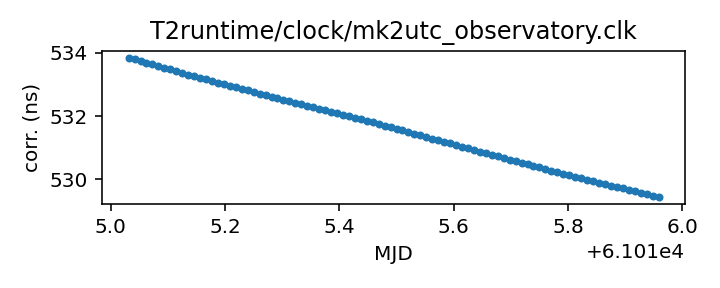
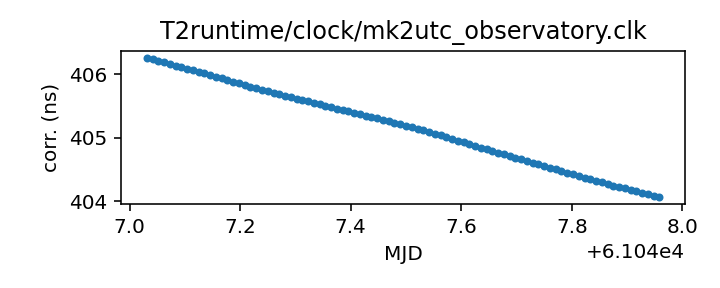
Routine gh-pages update from Github action Mon Jan 12 20:47:20 UTC 2026

diff --git a/status.md b/status.md
@@ -13,18 +13,18 @@ name of each clock file links to a page with more details.
 
 | Name | File | Corrections start | Corrections end | Last check date | Last check result 
 |:--- |:--- | --- | --- | --- |:--- 
-| [GPS to UTC](T2runtime/clock/gps2utc.clk.html) | `T2runtime/clock/gps2utc.clk` | 1993-01-01 MJD 48988.0 | 2025-12-30 MJD 61039.0 | 2026-01-11 | Unchanged 
-| [GPS to UTC (Combined Clock)](T2runtime/clock/gps2utc_cc.clk.html) | `T2runtime/clock/gps2utc_cc.clk` | 1993-01-01 MJD 48988.0 | 2025-12-30 MJD 61039.0 | 2026-01-11 | Unchanged 
-| [GPS to UTC (Corrected)](T2runtime/clock/gps2utc_c0p.clk.html) | `T2runtime/clock/gps2utc_c0p.clk` | 2010-12-29 MJD 55559.0 | 2025-12-30 MJD 61039.0 | 2026-01-11 | Unchanged 
-| [GBT](tempo/clock/time_gbt.dat.html) | `tempo/clock/time_gbt.dat` | 2000-12-31 MJD 51909.5 | 2026-01-10 MJD 61050.5 | 2026-01-11 | Updated 
-| [GBT (TEMPO2 converted from TEMPO)](T2runtime/clock/gbt2gps.clk.html) | `T2runtime/clock/gbt2gps.clk` | 2000-12-31 MJD 51909.5 | 2024-05-18 MJD 60448.5 | 2026-01-11 | **Validation failed** 
-| [Jodrell Bank](T2runtime/clock/jb2gps.clk.html) | `T2runtime/clock/jb2gps.clk` | 2006-10-13 MJD 54021.4 | 2025-10-08 MJD 60956.0 | 2026-01-05 | **Validation failed** 
-| [Jodrell Bank Roach](T2runtime/clock/jbroach2jb.clk.html) | `T2runtime/clock/jbroach2jb.clk` | 2006-10-13 MJD 54021.4 | 2018-03-20 MJD 58197.6 | 2026-01-05 | Unchanged 
-| [Jodrell Bank DFB](T2runtime/clock/jbdfb2jb.clk.html) | `T2runtime/clock/jbdfb2jb.clk` | 2006-10-13 MJD 54021.4 | 2021-02-22 MJD 59268.0 | 2026-01-05 | Unchanged 
-| [Meerkat (observatory)](T2runtime/clock/mk2utc_observatory.clk.html) | `T2runtime/clock/mk2utc_observatory.clk` | 2019-01-01 MJD 58484.0 | 2025-12-06 MJD 61016.0 | 2026-01-05 | Unchanged 
-| [Leap seconds](tempo/clock/leap.sec.html) | `tempo/clock/leap.sec` | 1972-07-01 MJD 41499.0 | 2017-01-01 MJD 57754.0 | 2026-01-11 | Unchanged 
-| [UT1 table](tempo/clock/ut1.dat.html) | `tempo/clock/ut1.dat` | 1973-01-02 MJD 41684.0 | 2027-01-16 MJD 61421.0 | 2026-01-11 | Unchanged 
-| [UT1 table](T2runtime/clock/ut1.dat.html) | `T2runtime/clock/ut1.dat` | 1973-01-02 MJD 41684.0 | 2027-01-16 MJD 61421.0 | 2026-01-11 | Unchanged 
+| [GPS to UTC](T2runtime/clock/gps2utc.clk.html) | `T2runtime/clock/gps2utc.clk` | 1993-01-01 MJD 48988.0 | 2025-12-30 MJD 61039.0 | 2026-01-12 | Unchanged 
+| [GPS to UTC (Combined Clock)](T2runtime/clock/gps2utc_cc.clk.html) | `T2runtime/clock/gps2utc_cc.clk` | 1993-01-01 MJD 48988.0 | 2025-12-30 MJD 61039.0 | 2026-01-12 | Unchanged 
+| [GPS to UTC (Corrected)](T2runtime/clock/gps2utc_c0p.clk.html) | `T2runtime/clock/gps2utc_c0p.clk` | 2010-12-29 MJD 55559.0 | 2025-12-30 MJD 61039.0 | 2026-01-12 | Unchanged 
+| [GBT](tempo/clock/time_gbt.dat.html) | `tempo/clock/time_gbt.dat` | 2000-12-31 MJD 51909.5 | 2026-01-11 MJD 61051.5 | 2026-01-12 | Updated 
+| [GBT (TEMPO2 converted from TEMPO)](T2runtime/clock/gbt2gps.clk.html) | `T2runtime/clock/gbt2gps.clk` | 2000-12-31 MJD 51909.5 | 2024-05-18 MJD 60448.5 | 2026-01-12 | **Validation failed** 
+| [Jodrell Bank](T2runtime/clock/jb2gps.clk.html) | `T2runtime/clock/jb2gps.clk` | 2006-10-13 MJD 54021.4 | 2025-10-08 MJD 60956.0 | 2026-01-12 | **Validation failed** 
+| [Jodrell Bank Roach](T2runtime/clock/jbroach2jb.clk.html) | `T2runtime/clock/jbroach2jb.clk` | 2006-10-13 MJD 54021.4 | 2018-03-20 MJD 58197.6 | 2026-01-12 | Unchanged 
+| [Jodrell Bank DFB](T2runtime/clock/jbdfb2jb.clk.html) | `T2runtime/clock/jbdfb2jb.clk` | 2006-10-13 MJD 54021.4 | 2021-02-22 MJD 59268.0 | 2026-01-12 | Unchanged 
+| [Meerkat (observatory)](T2runtime/clock/mk2utc_observatory.clk.html) | `T2runtime/clock/mk2utc_observatory.clk` | 2019-01-01 MJD 58484.0 | 2026-01-07 MJD 61048.0 | 2026-01-12 | Updated 
+| [Leap seconds](tempo/clock/leap.sec.html) | `tempo/clock/leap.sec` | 1972-07-01 MJD 41499.0 | 2017-01-01 MJD 57754.0 | 2026-01-12 | Unchanged 
+| [UT1 table](tempo/clock/ut1.dat.html) | `tempo/clock/ut1.dat` | 1973-01-02 MJD 41684.0 | 2027-01-16 MJD 61421.0 | 2026-01-12 | Unchanged 
+| [UT1 table](T2runtime/clock/ut1.dat.html) | `T2runtime/clock/ut1.dat` | 1973-01-02 MJD 41684.0 | 2027-01-16 MJD 61421.0 | 2026-01-12 | Unchanged 
 
 
 
@@ -68,26 +68,26 @@ name of each clock file links to a page with more details.
 
 | Name | File | Corrections start | Corrections end | Last check date | Last check result 
 |:--- |:--- | --- | --- | --- |:--- 
-| [GPS to UTC (TEMPO2)](T2runtime/clock/gpst2utc_tempo2.clk.html) | `T2runtime/clock/gpst2utc_tempo2.clk` | 1993-01-01 MJD 48988.0 | 2024-12-30 MJD 60674.0 | 2026-01-05 | Unchanged 
-| [GBT (TEMPO2)](T2runtime/clock/gbt2gps_tempo2.clk.html) | `T2runtime/clock/gbt2gps_tempo2.clk` | 2000-12-31 MJD 51909.5 | 2020-02-25 MJD 58904.5 | 2026-01-05 | Unchanged 
-| [Jodrell Bank (TEMPO)](tempo/clock/time_jb.dat.html) | `tempo/clock/time_jb.dat` | 2006-10-13 MJD 54021.4 | 2019-05-13 MJD 58616.2 | 2026-01-05 | Unchanged 
-| [VLA](tempo/clock/time_vla.dat.html) | `tempo/clock/time_vla.dat` | 1990-10-27 MJD 48191.2 | 2025-02-10 MJD 60716.2 | 2026-01-05 | Unchanged 
-| [VLA (TEMPO2)](T2runtime/clock/vla2gps.clk.html) | `T2runtime/clock/vla2gps.clk` | 2015-02-01 MJD 57054.6 | 2025-02-10 MJD 60716.2 | 2026-01-05 | Unchanged 
-| [VLA to NIST](T2runtime/clock/vla2nist.clk.html) | `T2runtime/clock/vla2nist.clk` | 1990-10-27 MJD 48191.2 | 1993-11-13 MJD 49304.0 | 2026-01-05 | Unchanged 
-| [FAST](tempo/clock/time_fast.dat.html) | `tempo/clock/time_fast.dat` | 2017-07-27 MJD 57961.0 | 2025-08-25 MJD 60913.0 | 2026-01-05 | **Failed to download** 
-| [WSRT](T2runtime/clock/wsrt2gps.clk.html) | `T2runtime/clock/wsrt2gps.clk` | 1999-01-01 MJD 51179.5 | 2015-06-29 MJD 57202.1 | 2026-01-05 | Unchanged 
-| [WSRT (TEMPO)](tempo/clock/time_wsrt.dat.html) | `tempo/clock/time_wsrt.dat` | 1987-07-24 MJD 47000.0 | 2007-12-24 MJD 54458.0 | 2026-01-05 | **Validation failed** 
-| [Parkes](T2runtime/clock/pks2gps.clk.html) | `T2runtime/clock/pks2gps.clk` | 1858-11-17 MJD 0.0 | 2025-11-30 MJD 61009.1 | 2026-01-05 | Unchanged 
-| [Parkes (TEMPO)](tempo/clock/time_pks.dat.html) | `tempo/clock/time_pks.dat` | 1979-05-07 MJD 44000.0 | 2011-07-03 MJD 55745.8 | 2026-01-05 | Unchanged 
-| [SRT](T2runtime/clock/srt2gps.clk.html) | `T2runtime/clock/srt2gps.clk` | 2013-03-20 MJD 56371.0 | 2019-12-11 MJD 58828.0 | 2026-01-05 | Unchanged 
-| [Effelsberg](T2runtime/clock/eff2gps.clk.html) | `T2runtime/clock/eff2gps.clk` | 1993-11-29 MJD 49320.0 | 2015-06-22 MJD 57195.5 | 2026-01-05 | Unchanged 
-| [Effelsberg Asterix/PSRix](T2runtime/clock/effix2gps.clk.html) | `T2runtime/clock/effix2gps.clk` | 2011-01-01 MJD 55562.5 | 2021-03-21 MJD 59294.5 | 2026-01-05 | Unchanged 
-| [LEAP](T2runtime/clock/leap2effix.clk.html) | `T2runtime/clock/leap2effix.clk` | 2012-10-29 MJD 56230.0 | 2014-03-04 MJD 56720.0 | 2026-01-05 | Unchanged 
-| [NUPPI](tempo/clock/time_nuppi.dat.html) | `tempo/clock/time_nuppi.dat` | 2005-03-07 MJD 53436.0 | 2015-11-08 MJD 57334.6 | 2026-01-05 | Unchanged 
-| [Meerkat (TEMPO2)](T2runtime/clock/mk2utc.clk.html) | `T2runtime/clock/mk2utc.clk` | 2019-01-01 MJD 58484.0 | 2024-09-23 MJD 60576.9 | 2026-01-05 | **Validation failed** 
-| [MOST](T2runtime/clock/mo2gps.clk.html) | `T2runtime/clock/mo2gps.clk` | 2003-12-27 MJD 53000.0 | 2018-09-06 MJD 58367.0 | 2026-01-05 | Unchanged 
-| [Nancay to obspm](T2runtime/clock/ncyobs2obspm.clk.html) | `T2runtime/clock/ncyobs2obspm.clk` | 1988-05-18 MJD 47299.6 | 2024-12-30 MJD 60674.0 | 2026-01-05 | Unchanged 
-| [obspm](T2runtime/clock/obspm2gps.clk.html) | `T2runtime/clock/obspm2gps.clk` | 2003-12-01 MJD 52974.0 | 2023-10-27 MJD 60244.0 | 2026-01-05 | Unchanged 
+| [GPS to UTC (TEMPO2)](T2runtime/clock/gpst2utc_tempo2.clk.html) | `T2runtime/clock/gpst2utc_tempo2.clk` | 1993-01-01 MJD 48988.0 | 2024-12-30 MJD 60674.0 | 2026-01-12 | Unchanged 
+| [GBT (TEMPO2)](T2runtime/clock/gbt2gps_tempo2.clk.html) | `T2runtime/clock/gbt2gps_tempo2.clk` | 2000-12-31 MJD 51909.5 | 2020-02-25 MJD 58904.5 | 2026-01-12 | Unchanged 
+| [Jodrell Bank (TEMPO)](tempo/clock/time_jb.dat.html) | `tempo/clock/time_jb.dat` | 2006-10-13 MJD 54021.4 | 2019-05-13 MJD 58616.2 | 2026-01-12 | Unchanged 
+| [VLA](tempo/clock/time_vla.dat.html) | `tempo/clock/time_vla.dat` | 1990-10-27 MJD 48191.2 | 2025-02-10 MJD 60716.2 | 2026-01-12 | Unchanged 
+| [VLA (TEMPO2)](T2runtime/clock/vla2gps.clk.html) | `T2runtime/clock/vla2gps.clk` | 2015-02-01 MJD 57054.6 | 2025-02-10 MJD 60716.2 | 2026-01-12 | Unchanged 
+| [VLA to NIST](T2runtime/clock/vla2nist.clk.html) | `T2runtime/clock/vla2nist.clk` | 1990-10-27 MJD 48191.2 | 1993-11-13 MJD 49304.0 | 2026-01-12 | Unchanged 
+| [FAST](tempo/clock/time_fast.dat.html) | `tempo/clock/time_fast.dat` | 2017-07-27 MJD 57961.0 | 2025-08-25 MJD 60913.0 | 2026-01-12 | **Failed to download** 
+| [WSRT](T2runtime/clock/wsrt2gps.clk.html) | `T2runtime/clock/wsrt2gps.clk` | 1999-01-01 MJD 51179.5 | 2015-06-29 MJD 57202.1 | 2026-01-12 | Unchanged 
+| [WSRT (TEMPO)](tempo/clock/time_wsrt.dat.html) | `tempo/clock/time_wsrt.dat` | 1987-07-24 MJD 47000.0 | 2007-12-24 MJD 54458.0 | 2026-01-12 | **Validation failed** 
+| [Parkes](T2runtime/clock/pks2gps.clk.html) | `T2runtime/clock/pks2gps.clk` | 1858-11-17 MJD 0.0 | 2025-11-30 MJD 61009.1 | 2026-01-12 | Unchanged 
+| [Parkes (TEMPO)](tempo/clock/time_pks.dat.html) | `tempo/clock/time_pks.dat` | 1979-05-07 MJD 44000.0 | 2011-07-03 MJD 55745.8 | 2026-01-12 | Unchanged 
+| [SRT](T2runtime/clock/srt2gps.clk.html) | `T2runtime/clock/srt2gps.clk` | 2013-03-20 MJD 56371.0 | 2019-12-11 MJD 58828.0 | 2026-01-12 | Unchanged 
+| [Effelsberg](T2runtime/clock/eff2gps.clk.html) | `T2runtime/clock/eff2gps.clk` | 1993-11-29 MJD 49320.0 | 2015-06-22 MJD 57195.5 | 2026-01-12 | Unchanged 
+| [Effelsberg Asterix/PSRix](T2runtime/clock/effix2gps.clk.html) | `T2runtime/clock/effix2gps.clk` | 2011-01-01 MJD 55562.5 | 2021-03-21 MJD 59294.5 | 2026-01-12 | Unchanged 
+| [LEAP](T2runtime/clock/leap2effix.clk.html) | `T2runtime/clock/leap2effix.clk` | 2012-10-29 MJD 56230.0 | 2014-03-04 MJD 56720.0 | 2026-01-12 | Unchanged 
+| [NUPPI](tempo/clock/time_nuppi.dat.html) | `tempo/clock/time_nuppi.dat` | 2005-03-07 MJD 53436.0 | 2015-11-08 MJD 57334.6 | 2026-01-12 | Unchanged 
+| [Meerkat (TEMPO2)](T2runtime/clock/mk2utc.clk.html) | `T2runtime/clock/mk2utc.clk` | 2019-01-01 MJD 58484.0 | 2024-09-23 MJD 60576.9 | 2026-01-12 | **Validation failed** 
+| [MOST](T2runtime/clock/mo2gps.clk.html) | `T2runtime/clock/mo2gps.clk` | 2003-12-27 MJD 53000.0 | 2018-09-06 MJD 58367.0 | 2026-01-12 | Unchanged 
+| [Nancay to obspm](T2runtime/clock/ncyobs2obspm.clk.html) | `T2runtime/clock/ncyobs2obspm.clk` | 1988-05-18 MJD 47299.6 | 2024-12-30 MJD 60674.0 | 2026-01-12 | Unchanged 
+| [obspm](T2runtime/clock/obspm2gps.clk.html) | `T2runtime/clock/obspm2gps.clk` | 2003-12-01 MJD 52974.0 | 2023-10-27 MJD 60244.0 | 2026-01-12 | Unchanged 
 
 
 ### Further information:

diff --git a/T2runtime/clock/gbt2gps.clk.md b/T2runtime/clock/gbt2gps.clk.md
@@ -25,12 +25,11 @@ If questions arise about the conversion, contact Anne Archibald
 | Clock file start | 2000-12-31 MJD 51909.5 |
 | Clock file end | 2024-05-18 MJD 60448.5 |
 | Update interval (days) | 1 |
-| Last update attempt | 2026-01-11 |
+| Last update attempt | 2026-01-12 |
 | Last update result | Validation failed |
 
 Log entries from the last few update attempts:
 ```
-2026-01-02 20:44:08.269 - Validation failed: New version of T2runtime/clock/gbt2gps.clk MJDs differ from old version where they overlap in 8407 places
 2026-01-03 20:43:23.604 - Validation failed: New version of T2runtime/clock/gbt2gps.clk MJDs differ from old version where they overlap in 8407 places
 2026-01-04 20:44:16.995 - Validation failed: New version of T2runtime/clock/gbt2gps.clk MJDs differ from old version where they overlap in 8407 places
 2026-01-05 20:47:09.663 - Validation failed: New version of T2runtime/clock/gbt2gps.clk MJDs differ from old version where they overlap in 8407 places
@@ -40,6 +39,7 @@ Log entries from the last few update attempts:
 2026-01-09 20:46:23.076 - Validation failed: New version of T2runtime/clock/gbt2gps.clk MJDs differ from old version where they overlap in 8407 places
 2026-01-10 20:43:50.411 - Validation failed: New version of T2runtime/clock/gbt2gps.clk MJDs differ from old version where they overlap in 8407 places
 2026-01-11 20:44:08.374 - Validation failed: New version of T2runtime/clock/gbt2gps.clk MJDs differ from old version where they overlap in 8407 places
+2026-01-12 20:46:41.307 - Validation failed: New version of T2runtime/clock/gbt2gps.clk MJDs differ from old version where they overlap in 8407 places
 ```
 [Full log](https://raw.githubusercontent.com/ipta/pulsar-clock-corrections/main/log/T2runtime/clock/gbt2gps.clk.log)
 

diff --git a/T2runtime/clock/mk2utc.clk.md b/T2runtime/clock/mk2utc.clk.md
@@ -17,12 +17,11 @@ up-to-date.
 | Clock file start | 2019-01-01 MJD 58484.0 |
 | Clock file end | 2024-09-23 MJD 60576.9 |
 | Update interval (days) | 7 |
-| Last update attempt | 2026-01-05 |
+| Last update attempt | 2026-01-12 |
 | Last update result | Validation failed |
 
 Log entries from the last few update attempts:
 ```
-2025-11-03 20:43:01.067 - Validation failed: New version of T2runtime/clock/mk2utc.clk MJDs differ from old version where they overlap in 8252 places
 2025-11-10 20:44:59.209 - Validation failed: New version of T2runtime/clock/mk2utc.clk MJDs differ from old version where they overlap in 8252 places
 2025-11-17 20:41:50.637 - Validation failed: New version of T2runtime/clock/mk2utc.clk MJDs differ from old version where they overlap in 8252 places
 2025-11-24 20:42:18.833 - Validation failed: New version of T2runtime/clock/mk2utc.clk MJDs differ from old version where they overlap in 8252 places
@@ -32,6 +31,7 @@ Log entries from the last few update attempts:
 2025-12-22 20:44:36.189 - Validation failed: New version of T2runtime/clock/mk2utc.clk MJDs differ from old version where they overlap in 8252 places
 2025-12-29 20:46:01.026 - Validation failed: New version of T2runtime/clock/mk2utc.clk MJDs differ from old version where they overlap in 8252 places
 2026-01-05 20:47:24.469 - Validation failed: New version of T2runtime/clock/mk2utc.clk MJDs differ from old version where they overlap in 8252 places
+2026-01-12 20:46:57.288 - Validation failed: New version of T2runtime/clock/mk2utc.clk MJDs differ from old version where they overlap in 8252 places
 ```
 [Full log](https://raw.githubusercontent.com/ipta/pulsar-clock-corrections/main/log/T2runtime/clock/mk2utc.clk.log)
 

diff --git a/tempo/clock/time_wsrt.dat.md b/tempo/clock/time_wsrt.dat.md
@@ -20,12 +20,11 @@ should be the same information.
 | Clock file start | 1987-07-24 MJD 47000.0 |
 | Clock file end | 2007-12-24 MJD 54458.0 |
 | Update interval (days) | 7 |
-| Last update attempt | 2026-01-05 |
+| Last update attempt | 2026-01-12 |
 | Last update result | Validation failed |
 
 Log entries from the last few update attempts:
 ```
-2025-11-03 20:42:27.208 - Validation failed: New version of tempo/clock/time_wsrt.dat MJDs differ from old version where they overlap in 5 places
 2025-11-10 20:44:41.093 - Validation failed: New version of tempo/clock/time_wsrt.dat MJDs differ from old version where they overlap in 5 places
 2025-11-17 20:41:29.092 - Validation failed: New version of tempo/clock/time_wsrt.dat MJDs differ from old version where they overlap in 5 places
 2025-11-24 20:42:06.542 - Validation failed: New version of tempo/clock/time_wsrt.dat MJDs differ from old version where they overlap in 5 places
@@ -35,6 +34,7 @@ Log entries from the last few update attempts:
 2025-12-22 20:44:26.024 - Validation failed: New version of tempo/clock/time_wsrt.dat MJDs differ from old version where they overlap in 5 places
 2025-12-29 20:45:50.302 - Validation failed: New version of tempo/clock/time_wsrt.dat MJDs differ from old version where they overlap in 5 places
 2026-01-05 20:47:13.857 - Validation failed: New version of tempo/clock/time_wsrt.dat MJDs differ from old version where they overlap in 5 places
+2026-01-12 20:46:46.097 - Validation failed: New version of tempo/clock/time_wsrt.dat MJDs differ from old version where they overlap in 5 places
 ```
 [Full log](https://raw.githubusercontent.com/ipta/pulsar-clock-corrections/main/log/tempo/clock/time_wsrt.dat.log)
 

diff --git a/T2runtime/clock/mk2utc_observatory.clk.md b/T2runtime/clock/mk2utc_observatory.clk.md
@@ -19,14 +19,13 @@ If questions arise, contact Ryan Shannon <rshannon@swin.edu.au>
 | Format | tempo2 |
 | Bogus last correction | False |
 | Clock file start | 2019-01-01 MJD 58484.0 |
-| Clock file end | 2025-12-06 MJD 61016.0 |
+| Clock file end | 2026-01-07 MJD 61048.0 |
 | Update interval (days) | 7 |
-| Last update attempt | 2026-01-05 |
-| Last update result | Unchanged |
+| Last update attempt | 2026-01-12 |
+| Last update result | Updated |
 
 Log entries from the last few update attempts:
 ```
-2025-11-03 20:42:59.579 - Unchanged
 2025-11-10 20:44:57.437 - Failed to download: <urlopen error _ssl.c:999: The handshake operation timed out>
 2025-11-17 20:41:48.816 - Updated
 2025-11-24 20:42:17.159 - Updated
@@ -36,6 +35,7 @@ Log entries from the last few update attempts:
 2025-12-22 20:44:34.912 - Unchanged
 2025-12-29 20:45:59.660 - Unchanged
 2026-01-05 20:47:23.154 - Unchanged
+2026-01-12 20:46:55.870 - Updated
 ```
 [Full log](https://raw.githubusercontent.com/ipta/pulsar-clock-corrections/main/log/T2runtime/clock/mk2utc_observatory.clk.log)
 
@@ -44,7 +44,7 @@ Leading comments from clock file:
     # Tie of Karoo Telescope Time to UTC
     # This file is from the KTT-GNSS sensor, and does not include circular-T
     # MJD = (SensorTime(us)/86400e6)+40587    15-minute snapshots
-    # Created at unix time 1765432583.5327 from KTT mySQL database.
+    # Created at unix time 1768200132.85743 from KTT mySQL database.
     #
     # MJD (days)   KTT-UTC (seconds)
     #------------------------------------------------------

diff --git a/T2runtime/clock/jb2gps.clk.md b/T2runtime/clock/jb2gps.clk.md
@@ -24,12 +24,11 @@ If questions arise, contact Michael Keith
 | Clock file start | 2006-10-13 MJD 54021.4 |
 | Clock file end | 2025-10-08 MJD 60956.0 |
 | Update interval (days) | 7 |
-| Last update attempt | 2026-01-05 |
+| Last update attempt | 2026-01-12 |
 | Last update result | Validation failed |
 
 Log entries from the last few update attempts:
 ```
-2025-11-03 20:42:25.171 - Unchanged
 2025-11-10 20:44:38.435 - Unchanged
 2025-11-17 20:41:26.358 - Unchanged
 2025-11-24 20:42:04.141 - Unchanged
@@ -39,6 +38,7 @@ Log entries from the last few update attempts:
 2025-12-22 20:44:24.602 - Validation failed: New version of T2runtime/clock/jb2gps.clk clock corrections differ from old version where they overlap in 177 places
 2025-12-29 20:45:48.346 - Validation failed: New version of T2runtime/clock/jb2gps.clk clock corrections differ from old version where they overlap in 177 places
 2026-01-05 20:47:11.922 - Validation failed: New version of T2runtime/clock/jb2gps.clk clock corrections differ from old version where they overlap in 177 places
+2026-01-12 20:46:43.663 - Validation failed: New version of T2runtime/clock/jb2gps.clk clock corrections differ from old version where they overlap in 177 places
 ```
 [Full log](https://raw.githubusercontent.com/ipta/pulsar-clock-corrections/main/log/T2runtime/clock/jb2gps.clk.log)
 

diff --git a/tempo/clock/time_fast.dat.md b/tempo/clock/time_fast.dat.md
@@ -16,12 +16,11 @@ This file is pulled from the FAST_ClockFile repository.
 | Clock file start | 2017-07-27 MJD 57961.0 |
 | Clock file end | 2025-08-25 MJD 60913.0 |
 | Update interval (days) | 7 |
-| Last update attempt | 2026-01-05 |
+| Last update attempt | 2026-01-12 |
 | Last update result | Failed to download |
 
 Log entries from the last few update attempts:
 ```
-2025-11-03 20:42:26.602 - Failed to download: HTTP Error 404: Not Found
 2025-11-10 20:44:40.322 - Failed to download: HTTP Error 404: Not Found
 2025-11-17 20:41:28.304 - Failed to download: HTTP Error 404: Not Found
 2025-11-24 20:42:05.814 - Failed to download: HTTP Error 404: Not Found
@@ -31,6 +30,7 @@ Log entries from the last few update attempts:
 2025-12-22 20:44:25.510 - Failed to download: HTTP Error 404: Not Found
 2025-12-29 20:45:49.728 - Failed to download: HTTP Error 404: Not Found
 2026-01-05 20:47:13.160 - Failed to download: HTTP Error 404: Not Found
+2026-01-12 20:46:45.350 - Failed to download: HTTP Error 404: Not Found
 ```
 [Full log](https://raw.githubusercontent.com/ipta/pulsar-clock-corrections/main/log/tempo/clock/time_fast.dat.log)
 

diff --git a/tempo/clock/time_gbt.dat.md b/tempo/clock/time_gbt.dat.md
@@ -36,14 +36,13 @@ If questions arise, contact Ryan S. Lynch <rlynch@nrao.edu>.
 | Format | tempo |
 | Bogus last correction | False |
 | Clock file start | 2000-12-31 MJD 51909.5 |
-| Clock file end | 2026-01-10 MJD 61050.5 |
+| Clock file end | 2026-01-11 MJD 61051.5 |
 | Update interval (days) | 1 |
-| Last update attempt | 2026-01-11 |
+| Last update attempt | 2026-01-12 |
 | Last update result | Updated |
 
 Log entries from the last few update attempts:
 ```
-2026-01-02 20:44:08.199 - Updated
 2026-01-03 20:43:23.530 - Updated
 2026-01-04 20:44:16.915 - Updated
 2026-01-05 20:47:09.373 - Updated
@@ -53,6 +52,7 @@ Log entries from the last few update attempts:
 2026-01-09 20:46:23.004 - Updated
 2026-01-10 20:43:50.337 - Updated
 2026-01-11 20:44:08.306 - Updated
+2026-01-12 20:46:40.849 - Updated
 ```
 [Full log](https://raw.githubusercontent.com/ipta/pulsar-clock-corrections/main/log/tempo/clock/time_gbt.dat.log)
 

diff --git a/T2runtime/clock/gps2utc_c0p.clk.md b/T2runtime/clock/gps2utc_c0p.clk.md
@@ -30,12 +30,11 @@ about the BIPM's published corrections, contact <tai@bipm.org>.
 | Clock file start | 2010-12-29 MJD 55559.0 |
 | Clock file end | 2025-12-30 MJD 61039.0 |
 | Update interval (days) | 1 |
-| Last update attempt | 2026-01-11 |
+| Last update attempt | 2026-01-12 |
 | Last update result | Unchanged |
 
 Log entries from the last few update attempts:
 ```
-2026-01-02 20:44:07.168 - Unchanged
 2026-01-03 20:43:23.170 - Unchanged
 2026-01-04 20:44:16.469 - Unchanged
 2026-01-05 20:47:07.953 - Unchanged
@@ -45,6 +44,7 @@ Log entries from the last few update attempts:
 2026-01-09 20:46:21.741 - Updated
 2026-01-10 20:43:49.791 - Unchanged
 2026-01-11 20:44:07.262 - Unchanged
+2026-01-12 20:46:40.340 - Unchanged
 ```
 [Full log](https://raw.githubusercontent.com/ipta/pulsar-clock-corrections/main/log/T2runtime/clock/gps2utc_c0p.clk.log)
 

diff --git a/tempo/clock/time_pks.dat.md b/tempo/clock/time_pks.dat.md
@@ -20,12 +20,11 @@ telescopes in the same file, distinguished only by observatory code.
 | Clock file start | 1979-05-07 MJD 44000.0 |
 | Clock file end | 2011-07-03 MJD 55745.8 |
 | Update interval (days) | 7 |
-| Last update attempt | 2026-01-05 |
+| Last update attempt | 2026-01-12 |
 | Last update result | Unchanged |
 
 Log entries from the last few update attempts:
 ```
-2025-11-03 20:42:32.121 - Unchanged
 2025-11-10 20:44:44.807 - Unchanged
 2025-11-17 20:41:33.120 - Unchanged
 2025-11-24 20:42:10.059 - Unchanged
@@ -35,6 +34,7 @@ Log entries from the last few update attempts:
 2025-12-22 20:44:30.910 - Unchanged
 2025-12-29 20:45:54.422 - Unchanged
 2026-01-05 20:47:18.879 - Unchanged
+2026-01-12 20:46:50.977 - Unchanged
 ```
 [Full log](https://raw.githubusercontent.com/ipta/pulsar-clock-corrections/main/log/tempo/clock/time_pks.dat.log)
 

diff --git a/T2runtime/clock/gps2utc_cc.clk.md b/T2runtime/clock/gps2utc_cc.clk.md
@@ -29,12 +29,11 @@ about the BIPM's published corrections, contact <tai@bipm.org>.
 | Clock file start | 1993-01-01 MJD 48988.0 |
 | Clock file end | 2025-12-30 MJD 61039.0 |
 | Update interval (days) | 1 |
-| Last update attempt | 2026-01-11 |
+| Last update attempt | 2026-01-12 |
 | Last update result | Unchanged |
 
 Log entries from the last few update attempts:
 ```
-2026-01-02 20:44:07.160 - Unchanged
 2026-01-03 20:43:23.161 - Unchanged
 2026-01-04 20:44:16.459 - Unchanged
 2026-01-05 20:47:07.945 - Unchanged
@@ -44,6 +43,7 @@ Log entries from the last few update attempts:
 2026-01-09 20:46:21.715 - Updated
 2026-01-10 20:43:49.783 - Unchanged
 2026-01-11 20:44:07.254 - Unchanged
+2026-01-12 20:46:40.333 - Unchanged
 ```
 [Full log](https://raw.githubusercontent.com/ipta/pulsar-clock-corrections/main/log/T2runtime/clock/gps2utc_cc.clk.log)
 

diff --git a/T2runtime/clock/gps2utc.clk.md b/T2runtime/clock/gps2utc.clk.md
@@ -32,12 +32,11 @@ about the BIPM's published corrections, contact <tai@bipm.org>.
 | Clock file start | 1993-01-01 MJD 48988.0 |
 | Clock file end | 2025-12-30 MJD 61039.0 |
 | Update interval (days) | 1 |
-| Last update attempt | 2026-01-11 |
+| Last update attempt | 2026-01-12 |
 | Last update result | Unchanged |
 
 Log entries from the last few update attempts:
 ```
-2026-01-02 20:44:07.138 - Unchanged
 2026-01-03 20:43:23.139 - Unchanged
 2026-01-04 20:44:16.434 - Unchanged
 2026-01-05 20:47:07.923 - Unchanged
@@ -47,6 +46,7 @@ Log entries from the last few update attempts:
 2026-01-09 20:46:21.656 - Updated
 2026-01-10 20:43:49.760 - Unchanged
 2026-01-11 20:44:07.232 - Unchanged
+2026-01-12 20:46:40.311 - Unchanged
 ```
 [Full log](https://raw.githubusercontent.com/ipta/pulsar-clock-corrections/main/log/T2runtime/clock/gps2utc.clk.log)
 
